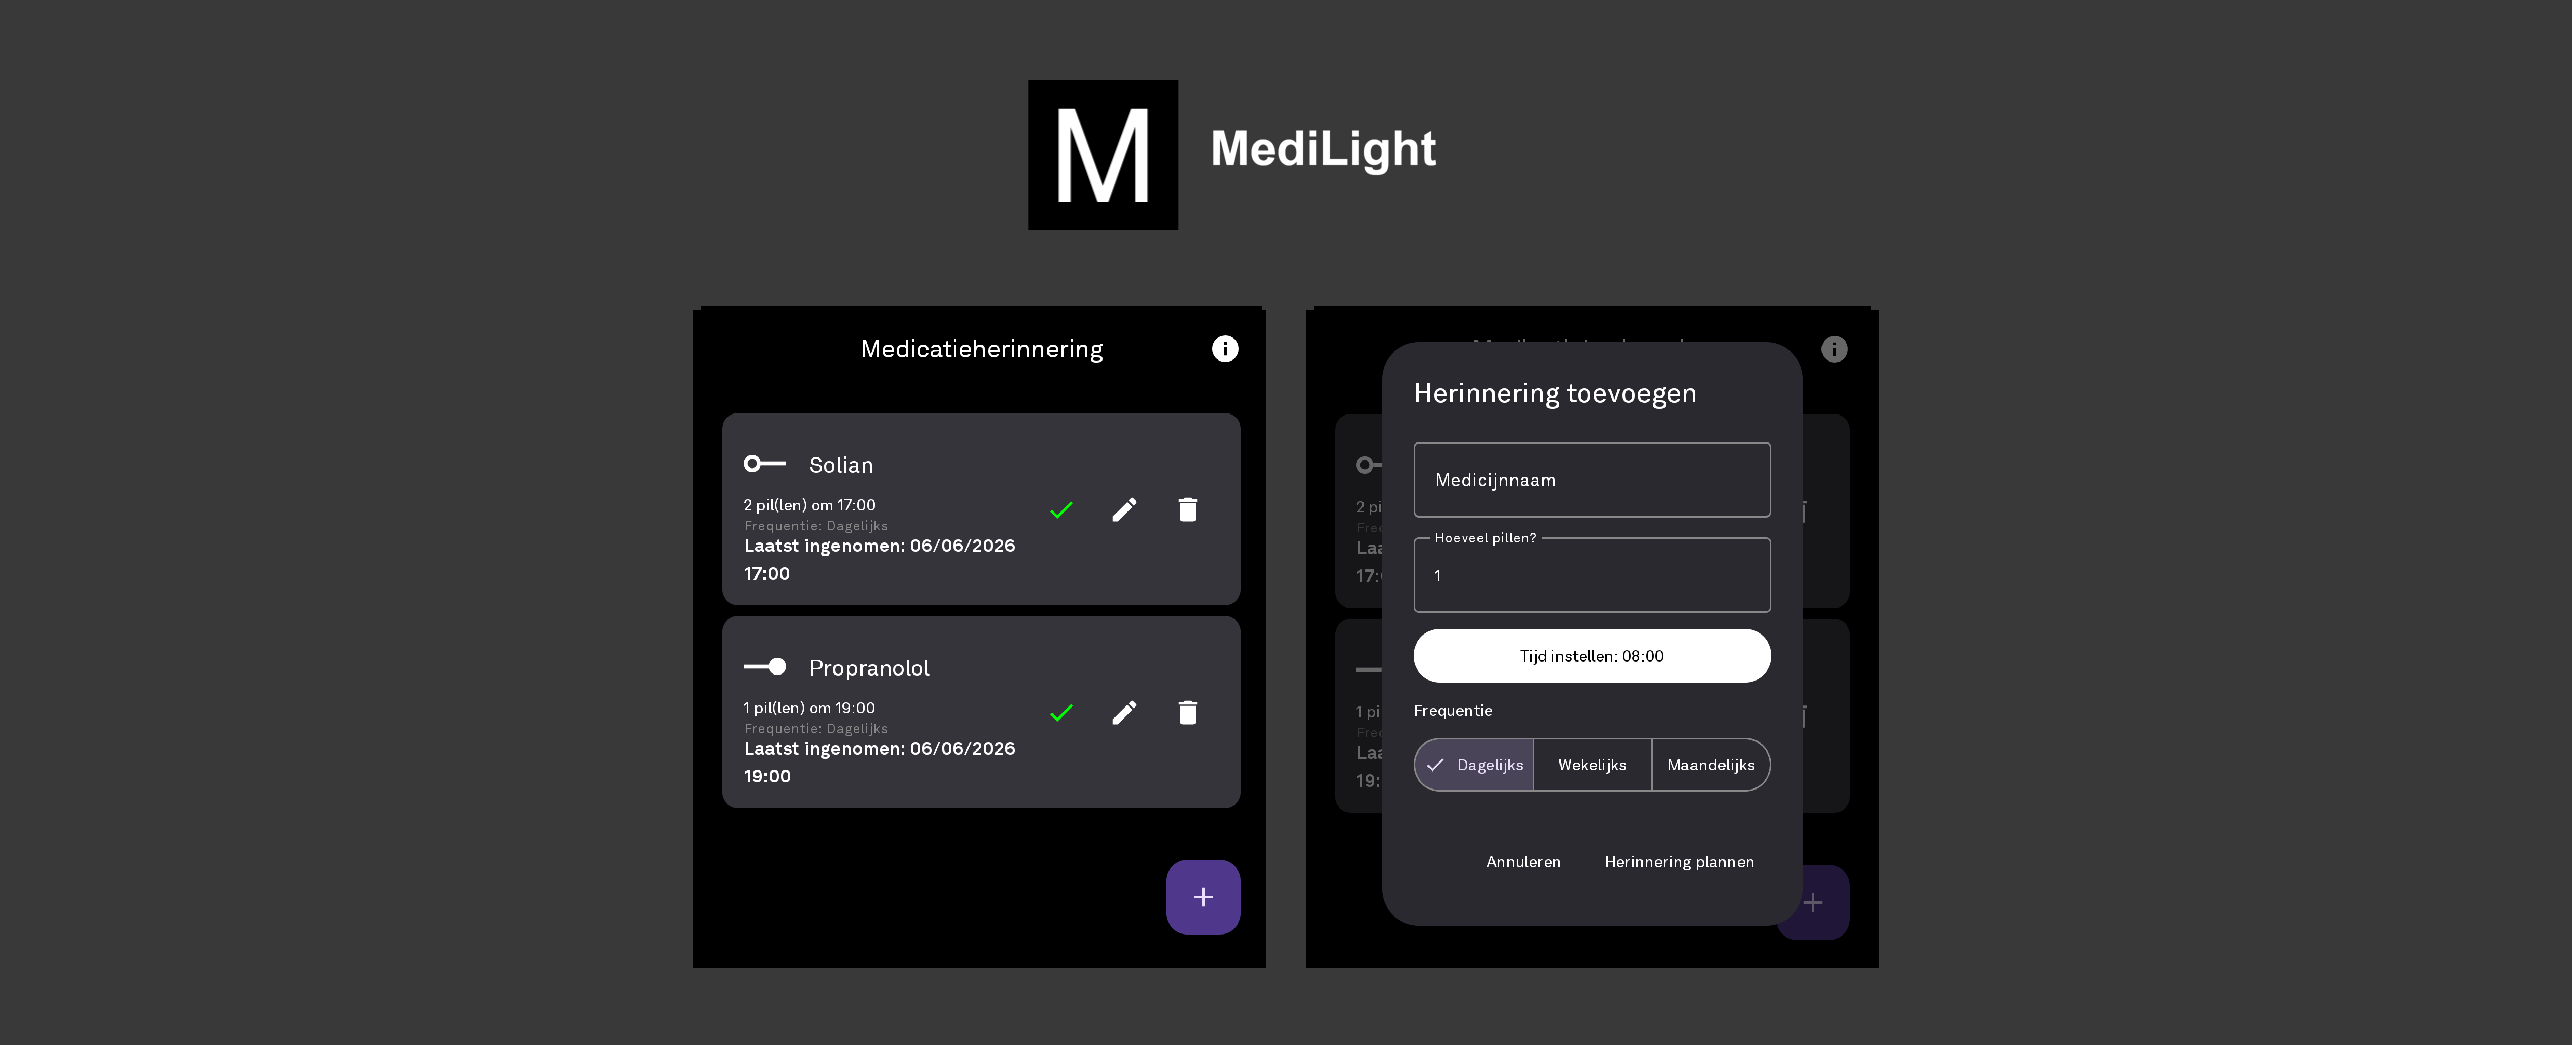
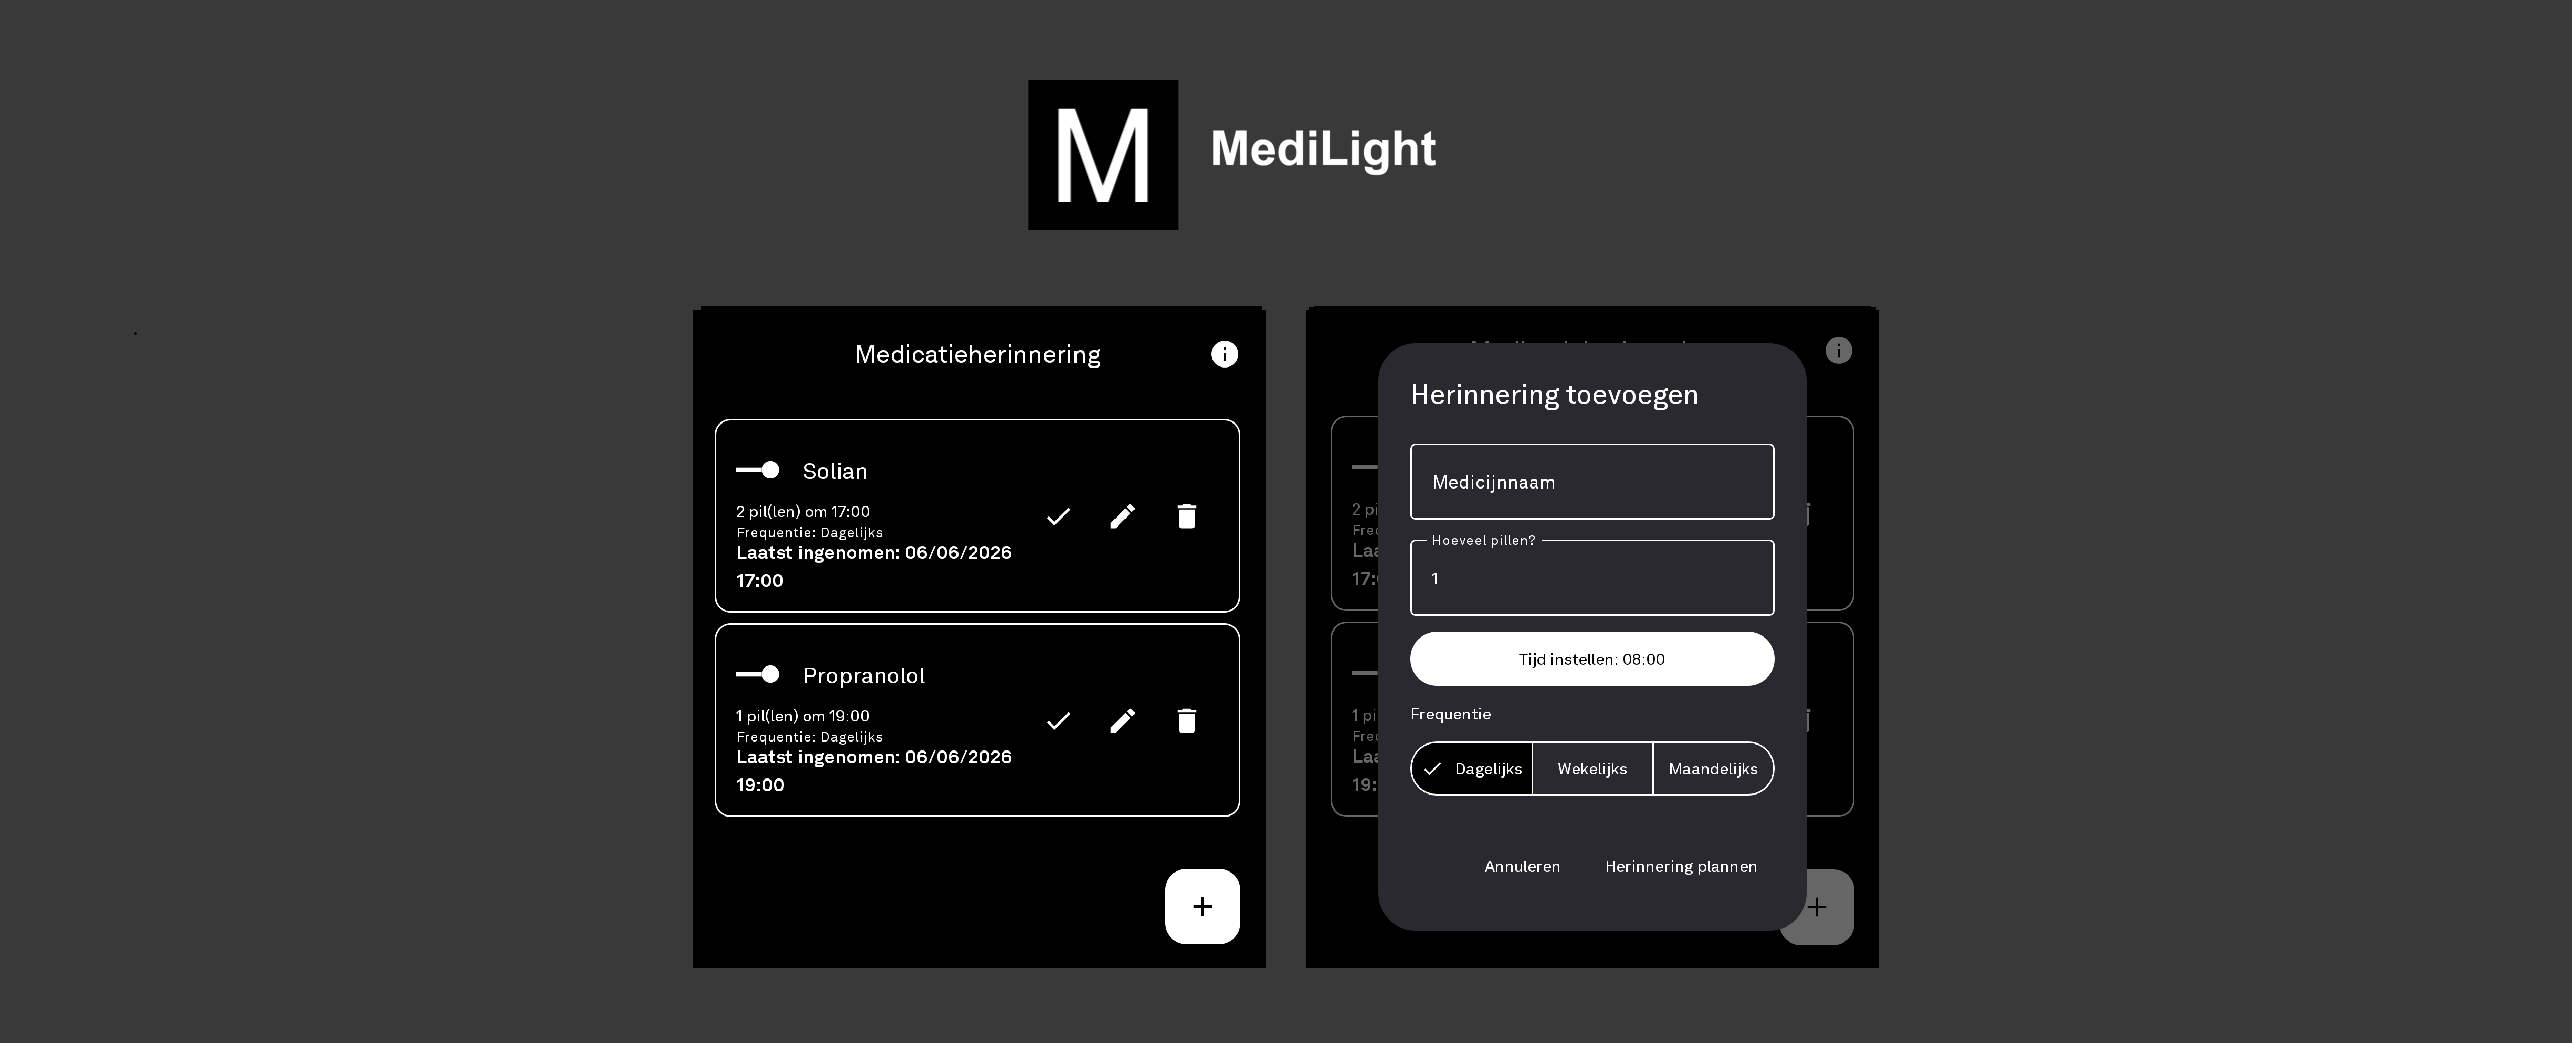
Update README adn Screenshot

diff --git a/app/src/main/java/com/light/medication/MedicationReminderScreen.kt b/app/src/main/java/com/light/medication/MedicationReminderScreen.kt
@@ -79,7 +79,11 @@ fun MedicationReminderScreen(viewModel: ReminderViewModel = viewModel()) {
                 )
             },
             floatingActionButton = {
-                FloatingActionButton(onClick = { showAddDialog = true }) {
+                FloatingActionButton(
+                    onClick = { showAddDialog = true },
+                    containerColor = MaterialTheme.colorScheme.primary,
+                    contentColor = MaterialTheme.colorScheme.onPrimary
+                ) {
                     Icon(Icons.Default.Add, contentDescription = stringResource(R.string.add_reminder_title))
                 }
             }
@@ -133,7 +137,8 @@ fun BatteryOptimizationBanner() {
             modifier = Modifier
                 .fillMaxWidth()
                 .padding(16.dp),
-            colors = CardDefaults.cardColors(containerColor = MaterialTheme.colorScheme.errorContainer)
+            border = androidx.compose.foundation.BorderStroke(1.dp, MaterialTheme.colorScheme.outline),
+            colors = CardDefaults.cardColors(containerColor = MaterialTheme.colorScheme.surface)
         ) {
             Column(modifier = Modifier.padding(16.dp)) {
                 Text(
@@ -199,6 +204,8 @@ fun ReminderItem(
 ) {
     Card(
         modifier = Modifier.fillMaxWidth(),
+        border = androidx.compose.foundation.BorderStroke(1.dp, MaterialTheme.colorScheme.outline),
+        colors = CardDefaults.cardColors(containerColor = MaterialTheme.colorScheme.surface)
     ) {
         Row(
             modifier = Modifier
@@ -257,7 +264,11 @@ fun ReminderItem(
             }
             Row(verticalAlignment = Alignment.CenterVertically) {
                 IconButton(onClick = { onTake(reminder) }) {
-                    Icon(Icons.Default.Check, contentDescription = stringResource(R.string.mark_as_taken_button), tint = if (reminder.lastTakenTimestamp != null) Color.Green else MaterialTheme.colorScheme.onSurface)
+                    Icon(
+                        Icons.Default.Check,
+                        contentDescription = stringResource(R.string.mark_as_taken_button),
+                        tint = if (reminder.lastTakenTimestamp != null) MaterialTheme.colorScheme.primary else MaterialTheme.colorScheme.outline.copy(alpha = 0.3f)
+                    )
                 }
                 IconButton(onClick = { onEdit(reminder) }) {
                     Icon(Icons.Default.Edit, contentDescription = stringResource(R.string.edit_button))
@@ -425,7 +436,7 @@ fun AboutScreen(onBack: () -> Unit) {
         Text(
             text = stringResource(R.string.about_version, BuildConfig.VERSION_NAME),
             style = MaterialTheme.typography.labelMedium,
-            color = Color.White
+            color = MaterialTheme.colorScheme.onBackground
         )
         
         Spacer(modifier = Modifier.height(48.dp))
@@ -434,8 +445,8 @@ fun AboutScreen(onBack: () -> Unit) {
             onClick = onBack,
             modifier = Modifier.fillMaxWidth(),
             colors = ButtonDefaults.buttonColors(
-                containerColor = MaterialTheme.colorScheme.surfaceVariant,
-                contentColor = MaterialTheme.colorScheme.onSurfaceVariant
+                containerColor = MaterialTheme.colorScheme.primary,
+                contentColor = MaterialTheme.colorScheme.onPrimary
             )
         ) {
             Text(stringResource(R.string.back_button))

diff --git a/app/src/main/java/com/light/medication/ui/theme/Theme.kt b/app/src/main/java/com/light/medication/ui/theme/Theme.kt
@@ -7,15 +7,29 @@ import androidx.compose.runtime.Composable
 private val BlackAndWhiteColorScheme = darkColorScheme(
     primary = White,
     onPrimary = Black,
-    secondary = Gray,
-    onSecondary = White,
+    primaryContainer = White,
+    onPrimaryContainer = Black,
+    secondary = White,
+    onSecondary = Black,
+    secondaryContainer = Black,
+    onSecondaryContainer = White,
+    tertiary = White,
+    onTertiary = Black,
+    tertiaryContainer = Black,
+    onTertiaryContainer = White,
     background = Black,
     onBackground = White,
     surface = Black,
     onSurface = White,
-    surfaceVariant = DarkGray,
+    surfaceVariant = Black,
     onSurfaceVariant = White,
-    outline = Gray
+    error = White,
+    onError = Black,
+    errorContainer = Black,
+    onErrorContainer = White,
+    outline = White,
+    outlineVariant = Gray,
+    scrim = Black
 )
 
 @Composable